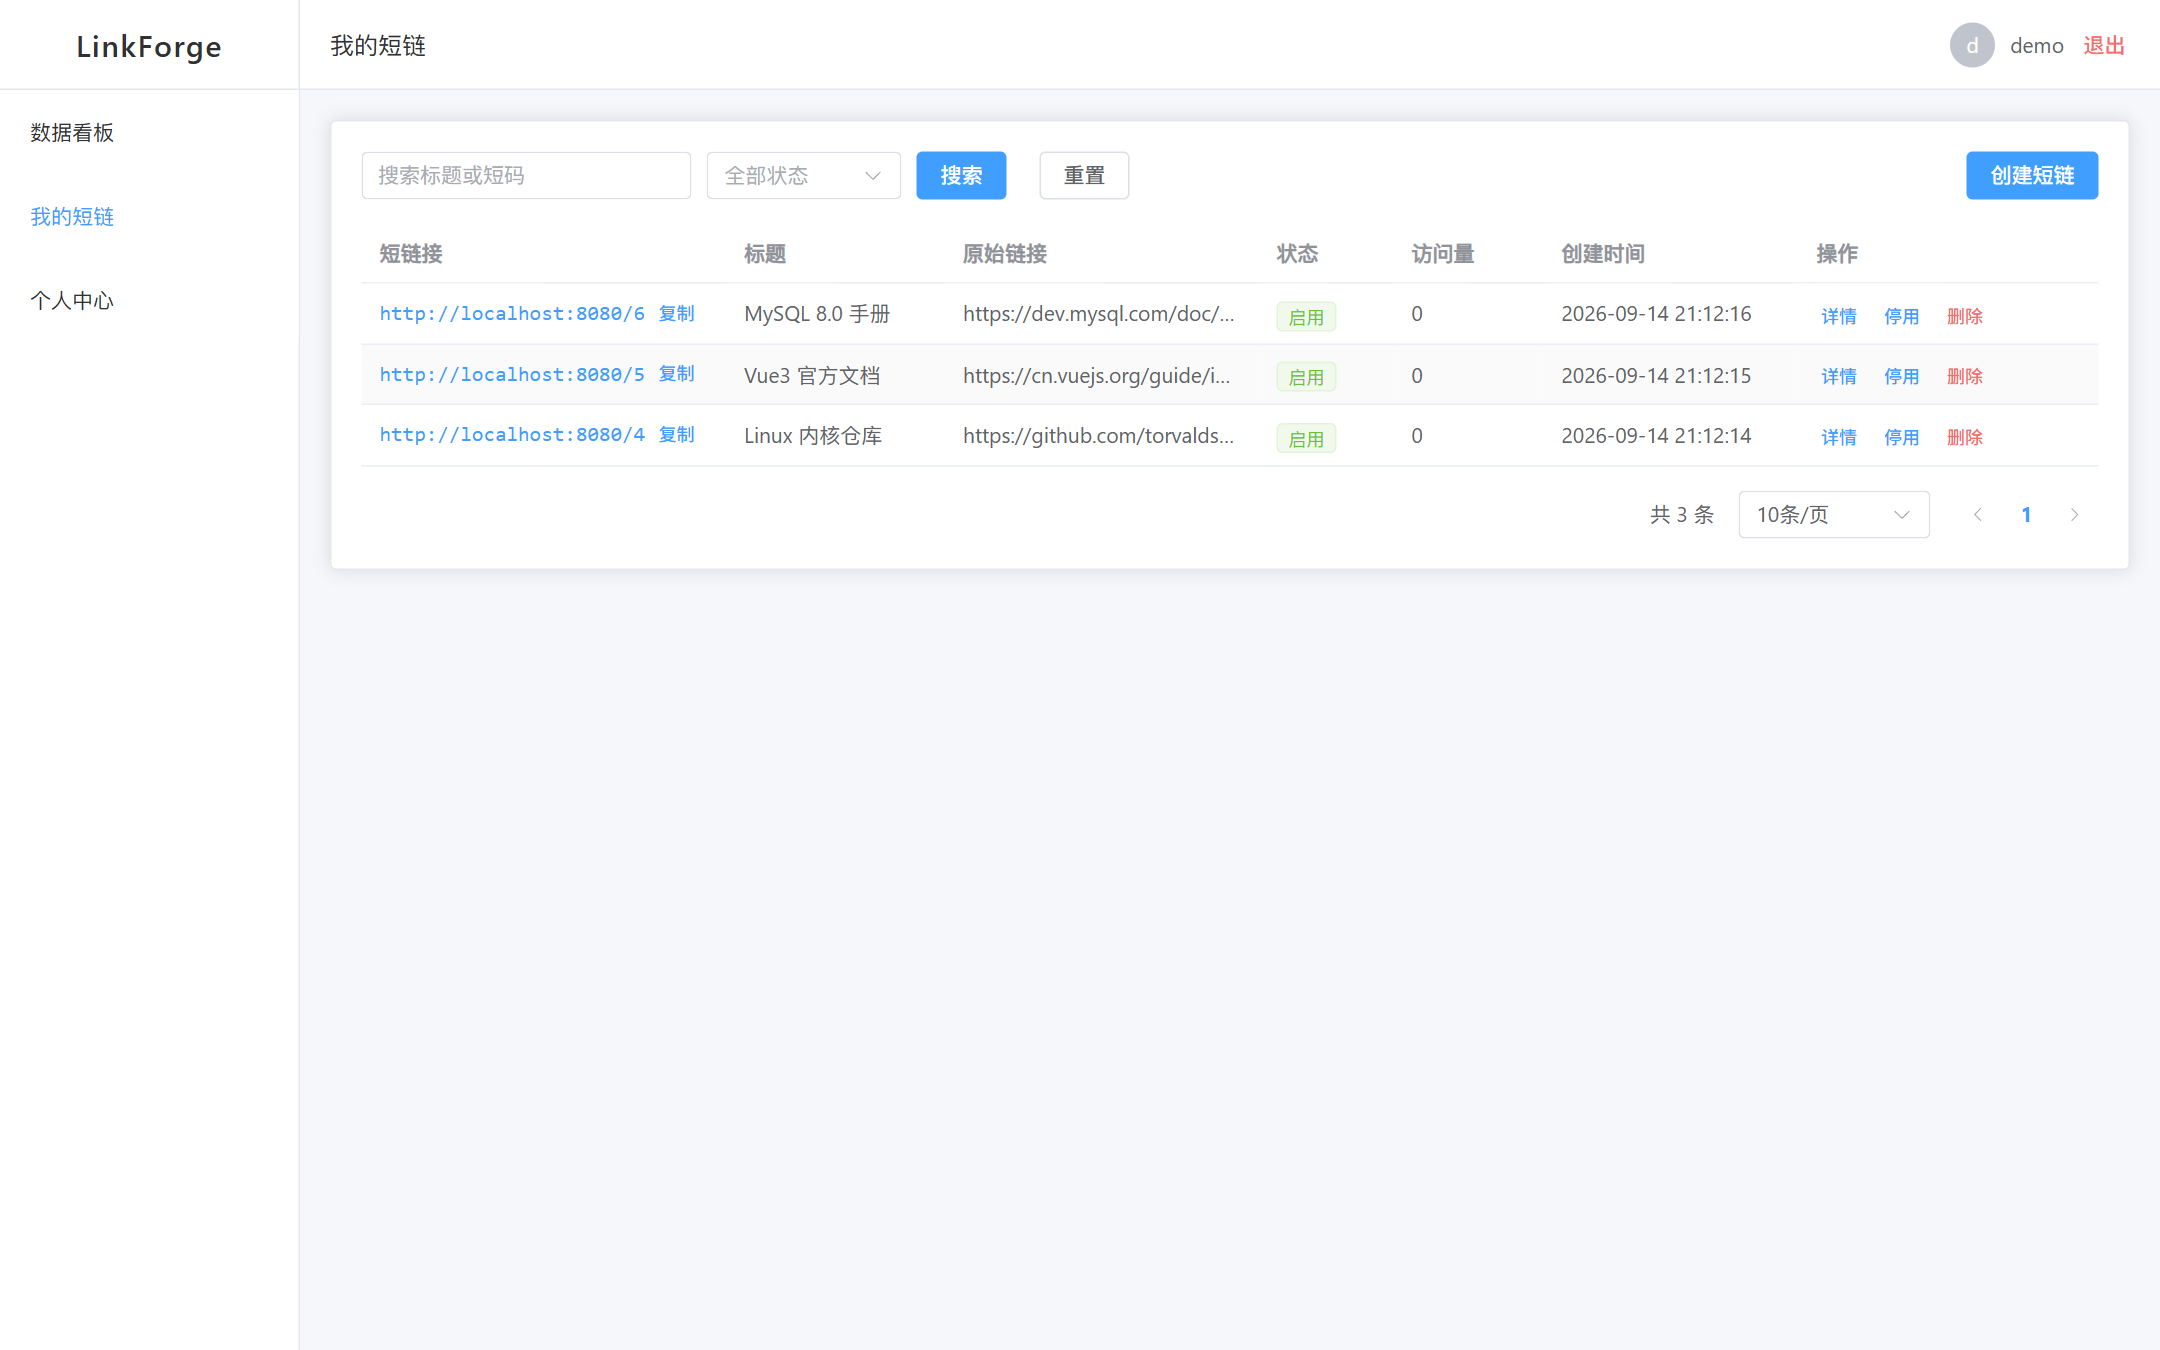
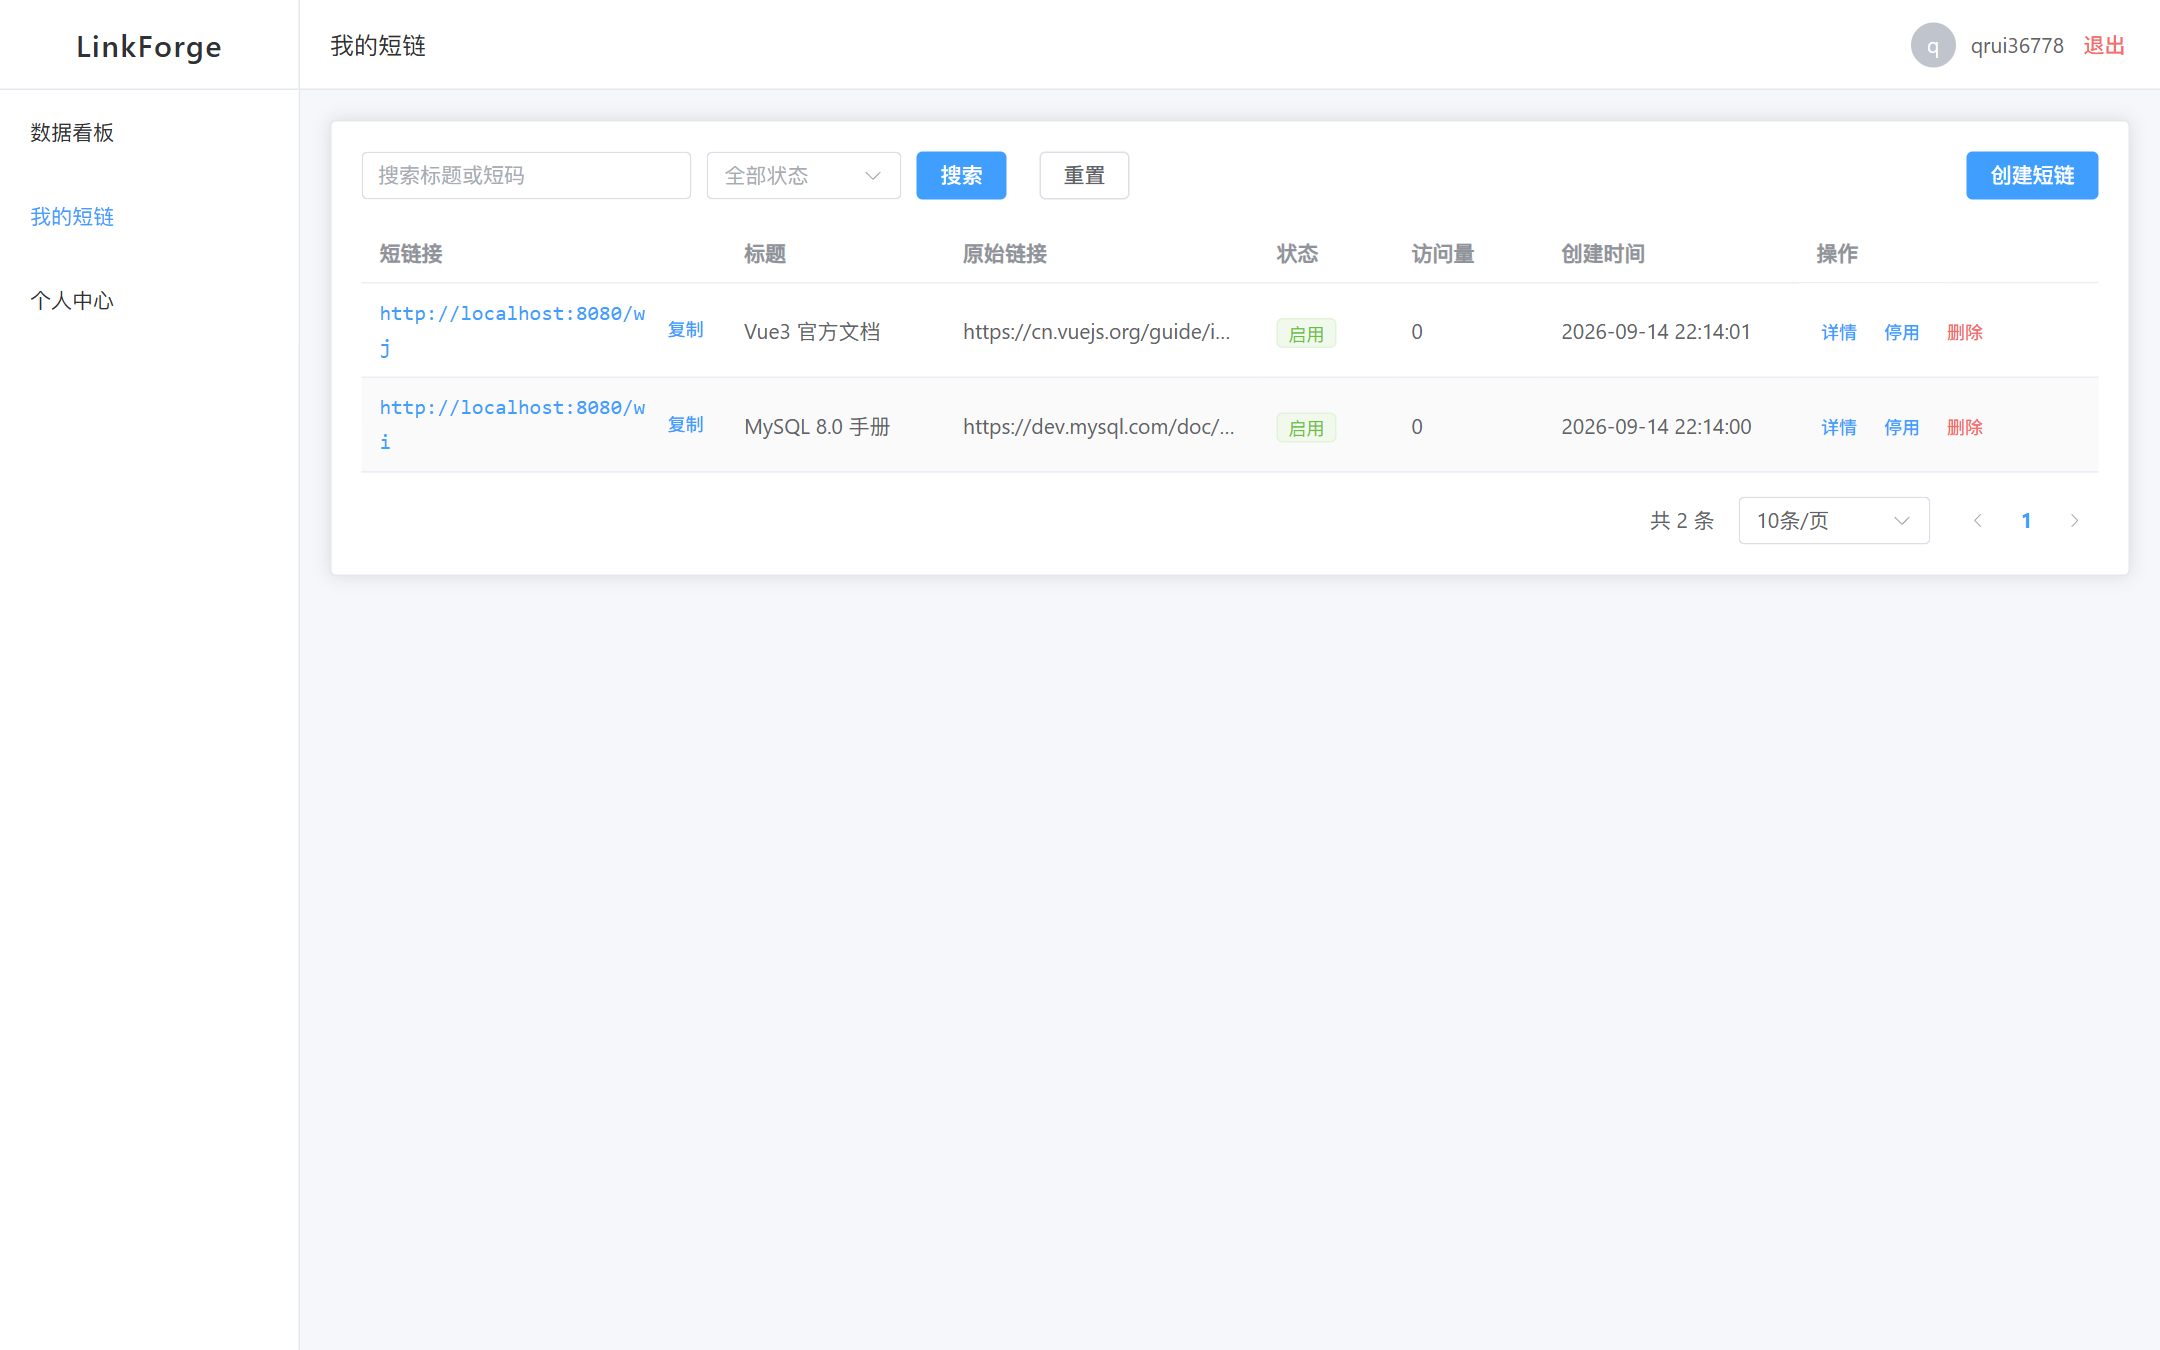
改进: 删掉二维码的尺寸选择器（它本来就是坏的）

diff --git a/web/src/views/LinkDetailView.vue b/web/src/views/LinkDetailView.vue
@@ -51,7 +51,18 @@ onMounted(loadDetail)
 
 // ==================== 二维码 ====================
 
-const qrSize = ref(300)
+/**
+ * 生成二维码时的像素尺寸。
+ *
+ * <p>固定值，不再让用户选。原来的小/中/大三个档位是坏的 ——
+ * 图片的 CSS 把显示宽度锁死在 260px，所以切换档位只改变了
+ * 下载文件的分辨率，屏幕上完全看不出区别，用户以为功能没用。
+ *
+ * <p>这里取 400 是因为它只影响**下载下来的文件**：屏幕上反正会被 CSS 缩到 260px 显示，
+ * 而下载的图有可能被拿去打印，分辨率高一点更稳妥。
+ */
+const QR_IMAGE_SIZE = 400
+
 const qrImageUrl = ref('')
 const qrLoading = ref(false)
 
@@ -69,7 +80,7 @@ async function loadQrCode() {
   qrLoading.value = true
   try {
     const blob = await request.get(`/link/${linkId}/qrcode`, {
-      params: { size: qrSize.value },
+      params: { size: QR_IMAGE_SIZE },
       responseType: 'blob'
     })
     // 换尺寸时会生成新的 object URL，旧的必须手动释放 ——
@@ -272,19 +283,12 @@ function onRemoveLogo() {
           </div>
 
           <div class="qr-actions">
-            <el-radio-group v-model="qrSize" size="small" @change="loadQrCode">
-              <el-radio-button :value="200">小</el-radio-button>
-              <el-radio-button :value="300">中</el-radio-button>
-              <el-radio-button :value="500">大</el-radio-button>
-            </el-radio-group>
-
             <el-button
               type="primary"
-              size="small"
               :disabled="!qrImageUrl"
               @click="onDownload"
             >
-              下载
+              下载二维码
             </el-button>
           </div>
 
@@ -343,6 +347,11 @@ function onRemoveLogo() {
   min-height: 240px;
 }
 
+/**
+ * 注意这里是"显示尺寸"，和接口生成的图片像素尺寸是两回事。
+ * 图片会被缩放到这个宽度铺在卡片里 —— 所以调大接口的 size 参数
+ * 不会让预览变大，只会让下载下来的文件更清晰。
+ */
 .qr-image {
   width: 100%;
   max-width: 260px;
@@ -351,7 +360,7 @@ function onRemoveLogo() {
 .qr-actions {
   display: flex;
   align-items: center;
-  justify-content: space-between;
+  justify-content: center;
   margin-top: 16px;
 }
 

diff --git a/web/src/views/DashboardView.vue b/web/src/views/DashboardView.vue
@@ -205,8 +205,17 @@ onBeforeUnmount(() => {
     <el-card class="chart-card">
       <template #header>访问量 Top 10</template>
 
-      <div v-show="topLinks.length" ref="topChartRef" class="chart"></div>
-      <el-empty v-if="!topLinks.length" description="还没有访问数据" :image-size="80" />
+      <!--
+        用 v-if 而不是 v-show。v-show 只是 display:none，元素还在 DOM 里、
+        宽高是 0；而 echarts.init 在一个 0x0 的容器上初始化会直接失败
+        （控制台会看到 "Can't get DOM width or height"），
+        之后就算有数据了也画不出来 —— 因为图表实例已经建坏了。
+
+        v-if 是"没有数据就不渲染这个 div"，等数据来了才创建元素，
+        这时候它有实际宽高，init 才是有效的
+      -->
+      <div v-if="topLinks.length" ref="topChartRef" class="chart"></div>
+      <el-empty v-else description="还没有访问数据" :image-size="80" />
     </el-card>
   </div>
 </template>
